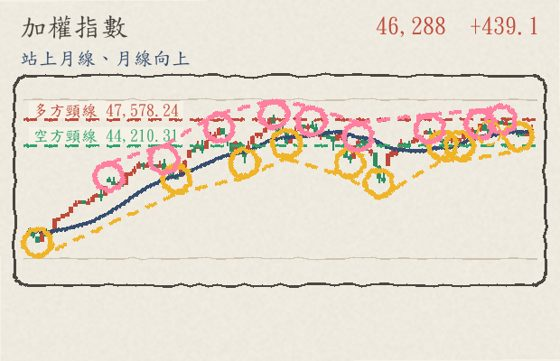
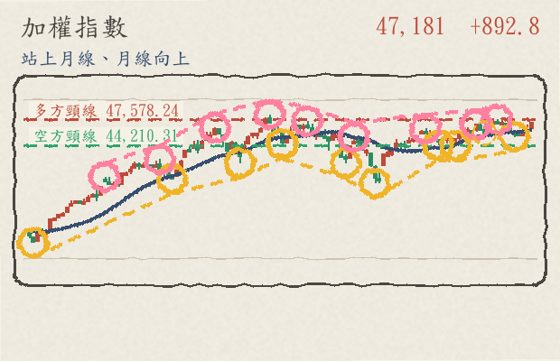
股市觀察：20260918 收盤後觀察（排程自動）

Changed region(s): [[0.0304, 0.2742, 0.9714, 0.7313], [0.6679, 0.0305, 0.8196, 0.0914], [0.85, 0.0305, 0.9714, 0.0914]]

diff --git a/stock/20260918/index.html b/stock/20260918/index.html
@@ -155,32 +155,32 @@
   </div>
   
   <section id="sec-market">
-    <h2>大盤趨勢快篩（加權指數） <small class="mksrc">資料日 2026/09/17・來源：證交所公開資料</small></h2>
+    <h2>大盤趨勢快篩（加權指數） <small class="mksrc">資料日 2026/09/18・來源：證交所公開資料</small></h2>
     <div class="mktbox">
       <div class="mkstate">主狀態：站上月線、月線向上</div>
-      <div class="mkprev">前一交易日對照（09/16）：量縮觀望（量比 20 0.78） → 今日站上月線、月線向上（量比 20 1.00）</div>
+      <div class="mkprev">前一交易日對照（09/17）：站上月線、月線向上（量比 20 1.00） → 今日站上月線、月線向上（量比 20 1.28）</div>
       <div class="scroll"><table>
         <tr><th>指標</th><th>數值</th><th>判定</th></tr>
         
-        <tr><th>收盤指數</th><td>46,288.00</td><td>+439.10 點（+0.96%）</td></tr>
+        <tr><th>收盤指數</th><td>47,180.75</td><td>+892.75 點（+1.93%）</td></tr>
         <tr id="sec-market-ma"><th>均線位置<br><span class="dim">收盤 vs MA5／10／20／60</span></th>
-          <td>MA5 45,939.15／MA10 46,480.28／MA20 46,159.89／MA60 45,156.82</td><td>站上 3／4｜站上／跌破／站上／站上（+0.76%／-0.41%／+0.28%／+2.51%）</td></tr>
-        <tr><th>均線排列</th><td>MA10 &gt; MA20 &gt; MA5 &gt; MA60</td><td>非標準排列（MA10 &gt; MA20 &gt; MA5 &gt; MA60，糾結度 2.87% → 糾結）</td></tr>
-        <tr><th>月線方向（MA20）</th><td>上彎（比 5 日前 +153.29 點／+0.33%）</td><td>上彎（+30.7 點／日）</td></tr>
+          <td>MA5 46,138.33／MA10 46,543.24／MA20 46,257.71／MA60 45,172.25</td><td>站上 4／4｜站上／站上／站上／站上（+2.26%／+1.37%／+2.00%／+4.45%）</td></tr>
+        <tr><th>均線排列</th><td>MA10 &gt; MA20 &gt; MA5 &gt; MA60</td><td>非標準排列（MA10 &gt; MA20 &gt; MA5 &gt; MA60，糾結度 2.96% → 糾結）</td></tr>
+        <tr><th>月線方向（MA20）</th><td>上彎（比 5 日前 +232.42 點／+0.50%）</td><td>上彎（+46.5 點／日）</td></tr>
         <tr id="sec-market-neck"><th>多方頸線<br><span class="dim">突破線</span></th>
-          <td>47,578.24（08-25 ~ 09-14 之間的最高轉折高點 09-08）</td><td>未突破，距 -2.71%</td></tr>
-        <tr><th>空方頸線<br><span class="dim">M 頭頸線</span></th><td>44,210.31（08-14 ~ 09-01 之間的最低轉折低點 08-25）</td><td>未跌破，距 +4.70%</td></tr>
+          <td>47,578.24（08-25 ~ 09-14 之間的最高轉折高點 09-08）</td><td>未突破，距 -0.84%</td></tr>
+        <tr><th>空方頸線<br><span class="dim">M 頭頸線</span></th><td>44,210.31（08-14 ~ 09-01 之間的最低轉折低點 08-25）</td><td>未跌破，距 +6.72%</td></tr>
         <tr><th>轉折結構<br><span class="dim">頭頭高／底底高</span></th>
           <td>高點 46,402.60 → 46,948.72 → 47,578.24（遞增）；低點 44,308.71 → 44,210.31 → 45,398.43（遞增，但僅因 0.5% 容差視為持平）</td><td>頭頭高 ✔、底底高 ✔（容差 0.5%）</td></tr>
-        <tr id="sec-market-pos"><th>位置</th><td>近 20 日高 47,578.24（09-08）／低 44,210.31（08-25）</td><td>距高 -2.71%、距低 +4.70%</td></tr>
+        <tr id="sec-market-pos"><th>位置</th><td>近 20 日高 47,578.24（09-08）／低 44,210.31（08-25）</td><td>距高 -0.84%、距低 +6.72%</td></tr>
         <tr id="sec-market-rank"><th>位階<br><span class="dim">近 20／60／120 日區間</span></th>
-          <td>近 120 日高 48,218.87（收盤價高 47,741.51）／低 31,705.99；近 60 日高 47,578.24／低 39,384.85</td><td>收盤位在 120 日區間第 88.3 個百分位（距 120 日高 -4.00%）</td></tr>
-        <tr id="sec-market-vol"><th>成交金額</th><td>8,666.2 億（集中市場總成交金額）</td><td>量比 5 = 1.20、量比 20 = 1.00（量能持平）</td></tr>
+          <td>近 120 日高 48,218.87（收盤價高 47,741.51）／低 31,705.99；近 60 日高 47,578.24／低 39,384.85</td><td>收盤位在 120 日區間第 93.7 個百分位（距 120 日高 -2.15%）</td></tr>
+        <tr id="sec-market-vol"><th>成交金額</th><td>11,423.2 億（集中市場總成交金額）</td><td>量比 5 = 1.43、量比 20 = 1.28（明顯放量）</td></tr>
         <tr id="sec-market-quad"><th>量價四象限<br><span class="dim">漲跌方向 × 量比 20</span></th>
-          <td>漲＋量平或縮 → 量縮上漲（追價意願有限）</td><td>量比 20 = 1.00（門檻 1.05 判定增／縮）→ 量縮上漲（追價意願有限）</td></tr>
+          <td>漲＋量增 → 量價配合（攻擊）</td><td>量比 20 = 1.28（門檻 1.05 判定增／縮）→ 量價配合（攻擊）</td></tr>
       </table></div>
-      <div class="mkbrief"><p class="mkconcl">加權指數今天漲 439.10 點（+0.96%），收 46,288.00、站上月線 46,159.89；月線還在上彎，MA10 這條短均還沒收復，離多方頸線 47,578.24 還差 2.71%。</p><ul class="mkpts"><li><b>均線位置</b>：4 條均線站上 3 條；沒站上的是 MA10 46,480.28（收盤比它低 0.41%）</li><li><b>月線方向</b>：月線 MA20 現在 46,159.89，比 5 個交易日前高 153.29 點 → 上彎</li><li><b>量能</b>：集中市場成交 8,666.2 億，比 5 日均量大不少（1.20 倍）、跟 20 日均量差不多（1.00 倍）</li><li><b>關鍵價位</b>：多方頸線 47,578.24，還差 2.71%；空方頸線 44,210.31，還在下方 4.70%</li><li><b>大小型股</b>：加權 +0.96%、櫃買 -0.26%，方向相反（大型股與小型股不同調）</li></ul></div>
-      <div class="mtgs"><a class="tg" href="#sec-market-ma">均線糾結</a><a class="tg" href="#sec-market-ma">收盤 &gt; MA60</a><a class="tg" href="#sec-market-ma">收盤 &lt; MA10（短均未收復）</a><a class="tg" href="#sec-market-pos">貼近 20 日高</a><a class="tg" href="#sec-market-vol">量縮上漲（追價意願有限）</a><a class="tg" href="#sec-market-vol">量能回升（量 ≥ 1.2×5 日均量）</a><a class="tg" href="#sec-market-neck">頭頭高</a><a class="tg" href="#sec-market-neck">底底高</a><a class="tg" href="#sec-market-neck">待確認轉折</a></div>
+      <div class="mkbrief"><p class="mkconcl">加權指數今天漲 892.75 點（+1.93%），收 47,180.75、站上月線 46,257.71；月線還在上彎，離多方頸線 47,578.24 還差 0.84%。</p><ul class="mkpts"><li><b>均線位置</b>：收盤在 MA5、MA10、MA20、MA60 之上（4 條全部站上）</li><li><b>月線方向</b>：月線 MA20 現在 46,257.71，比 5 個交易日前高 232.42 點 → 上彎</li><li><b>量能</b>：集中市場成交 11,423.2 億，比 5 日均量大不少（1.43 倍）、比 20 日均量大不少（1.28 倍）</li><li><b>關鍵價位</b>：多方頸線 47,578.24，還差 0.84%；空方頸線 44,210.31，還在下方 6.72%</li><li><b>大小型股</b>：加權 +1.93%、櫃買 +3.64%，兩邊同向</li></ul></div>
+      <div class="mtgs"><a class="tg" href="#sec-market-ma">均線糾結</a><a class="tg" href="#sec-market-ma">收盤 &gt; MA60</a><a class="tg" href="#sec-market-pos">貼近 20 日高</a><a class="tg" href="#sec-market-vol">量價配合（漲＋量增）</a><a class="tg" href="#sec-market-vol">量能回升（量 ≥ 1.2×5 日均量）</a><a class="tg" href="#sec-market-neck">頭頭高</a><a class="tg" href="#sec-market-neck">底底高</a><a class="tg" href="#sec-market-neck">待確認轉折</a></div>
       <div class="mkchart"><img src="charts/market.jpg" alt="加權指數日 K 線圖（黃圈＝轉折低點、粉圈＝轉折高點、藍線＝月線 MA20、水平虛線＝多方／空方頸線）" loading="lazy"><div class="cap">圖說：加權指數日 K（與個股圖相同標記）：黃圈＝轉折低點、粉圈＝轉折高點、虛線小圈＝還沒確認的轉折、藍線＝月線 MA20、水平虛線＝多方／空方頸線。最後一根是資料日當天。</div></div>
       <div class="note" style="margin:10px 0 0">本區塊為公開資料的技術面觀察，<strong>不構成投資建議</strong>，
         不報牌、不預測、不下買賣決策。成交金額為<strong>集中市場總成交金額</strong>（含 ETF／權證），
@@ -188,21 +188,21 @@
     </div>
 
       <div class="mkchip" id="sec-market-chip">
-        <h3>籌碼（三大法人／融資餘額）　<span class="dim">資料日 2026-09-17</span></h3>
+        <h3>籌碼（三大法人／融資餘額）　<span class="dim">資料日 2026-09-18</span></h3>
         <div class="scroll"><table>
           <tr><th>項目</th><th>數值</th></tr>
-          <tr><th>外資（不含外資自營商）</th><td>+495,061 張</td></tr><tr><th>投信</th><td>+119,126 張</td></tr><tr><th>自營商</th><td>-227,358 張</td></tr><tr><th>三大法人合計</th><td>+386,829 張</td></tr><tr><th>上市融資餘額</th><td>9,262,322 張（較前一交易日 +13,145 張）</td></tr><tr><th>上市融資金額</th><td>5,893.97 億（較前一交易日 +32.28 億）</td></tr><tr><th>上市融券餘額</th><td>216,288 張</td></tr>
+          <tr><th>外資（不含外資自營商）</th><td>+376,821 張</td></tr><tr><th>投信</th><td>+30,788 張</td></tr><tr><th>自營商</th><td>+238,091 張</td></tr><tr><th>三大法人合計</th><td>+645,699 張</td></tr>
         </table></div>
-        <div class="mknote">三大法人：證交所 rwd/zh/fund/T86（selectType=ALL）（全市場 17,977 列合計，單位 張（1 張＝1,000 股））；融資餘額：證交所 rwd/zh/marginTrading/MI_MARGN（selectType=ALL）（單位 張（融資交易單位））。法人合計＝外資＋投信＋自營商（同一市場、同一天）。</div>
+        <div class="mknote">三大法人：證交所 rwd/zh/fund/T86（selectType=ALL）（全市場 17,803 列合計，單位 張（1 張＝1,000 股））。法人合計＝外資＋投信＋自營商（同一市場、同一天）。</div>
       </div>
 
       <div class="mkotc" id="sec-market-otc">
         <h3>上市 vs 上櫃（同期快篩）</h3>
-        <div class="mkotcline">加權 +0.96% vs 櫃買 -0.26%（方向相反，大小型股背離）　→　方向相反（大小型股背離）
+        <div class="mkotcline">加權 +1.93% vs 櫃買 +3.64%（同向）　→　同向
           （兩個市場分開寫，不合併成一個數字；櫃買為 TPEX 公開資料）</div>
         <div class="scroll"><table>
           <tr><th>指標</th><th>加權（集中市場）</th><th>櫃買（上櫃）</th></tr>
-          <tr><th>收盤／漲跌</th><td>加權 46,288.00（+0.96%）</td><td>櫃買 398.17（-0.26%）</td></tr><tr><th>站上均線數</th><td>加權 3／4</td><td>櫃買 2／4</td></tr><tr><th>月線（MA20）</th><td>加權 站上（+0.28%）／上彎</td><td>櫃買 跌破（-0.27%）／上彎</td></tr><tr><th>多方頸線</th><td>加權 47,578.24｜未突破 -2.71%</td><td>櫃買 414.16｜未突破 -3.86%</td></tr><tr><th>空方頸線</th><td>加權 44,210.31｜未跌破 +4.70%</td><td>櫃買 394.59｜未跌破 +0.91%</td></tr><tr><th>近 120 日區間百分位</th><td>加權 88.3%</td><td>櫃買 59.8%</td></tr><tr><th>主狀態</th><td>加權 站上月線、月線向上</td><td>櫃買 月線爭奪</td></tr>
+          <tr><th>收盤／漲跌</th><td>加權 47,180.75（+1.93%）</td><td>櫃買 412.68（+3.64%）</td></tr><tr><th>站上均線數</th><td>加權 4／4</td><td>櫃買 4／4</td></tr><tr><th>月線（MA20）</th><td>加權 站上（+2.00%）／上彎</td><td>櫃買 站上（+3.04%）／上彎</td></tr><tr><th>多方頸線</th><td>加權 47,578.24｜未突破 -0.84%</td><td>櫃買 414.16｜未突破 -0.36%</td></tr><tr><th>空方頸線</th><td>加權 44,210.31｜未跌破 +6.72%</td><td>櫃買 394.59｜未跌破 +4.58%</td></tr><tr><th>近 120 日區間百分位</th><td>加權 93.7%</td><td>櫃買 69.3%</td></tr><tr><th>主狀態</th><td>加權 站上月線、月線向上</td><td>櫃買 站上月線、月線向上</td></tr>
         </table></div>
         <div class="mknote">櫃買歷史：TPEX 逐日回補 130 根；來源：櫃買中心 www/zh-tw/indexInfo/sectinx（逐日，官方；OpenAPI tpex_index 只回當月）
           （TPEX OpenAPI 只回當月，故逐日回補；歷史不足就不算該條均線並標「資料不足」，不用錯數字）</div>
@@ -212,7 +212,7 @@
         <h3>近 20 個交易日大盤狀態回溯（最新在上）</h3>
         <div class="scroll"><table>
           <tr><th>日期</th><th>主狀態</th><th>量比 20</th><th>量價象限</th></tr>
-          <tr><td class="d">09/17</td><td>站上月線、月線向上</td><td class="d">1.00</td><td class="d">量縮上漲（追價意願有限）</td></tr><tr><td class="d">09/16</td><td>量縮觀望</td><td class="d">0.78</td><td class="d">量縮上漲（追價意願有限）</td></tr><tr><td class="d">09/15</td><td>量縮觀望</td><td class="d">0.72</td><td class="d">量縮回檔（賣壓不重）</td></tr><tr><td class="d">09/14</td><td>月線爭奪</td><td class="d">0.74</td><td class="d">量縮回檔（賣壓不重）</td></tr><tr><td class="d">09/11</td><td>站上月線、月線向上</td><td class="d">0.83</td><td class="d">量縮回檔（賣壓不重）</td></tr><tr><td class="d">09/10</td><td>站上月線、月線向上</td><td class="d">0.81</td><td class="d">量縮回檔（賣壓不重）</td></tr><tr><td class="d">09/09</td><td>多頭排列</td><td class="d">0.86</td><td class="d">量縮上漲（追價意願有限）</td></tr><tr><td class="d">09/08</td><td>多頭排列</td><td class="d">0.97</td><td class="d">量縮回檔（賣壓不重）</td></tr><tr><td class="d">09/07</td><td>多頭排列</td><td class="d">1.05</td><td class="d">量縮上漲（追價意願有限）</td></tr><tr><td class="d">09/04</td><td>多頭排列</td><td class="d">0.91</td><td class="d">量縮上漲（追價意願有限）</td></tr><tr><td class="d">09/03</td><td>站上月線、月線向上</td><td class="d">1.05</td><td class="d">量增下跌（賣壓出籠）</td></tr><tr><td class="d">09/02</td><td>站上月線、月線向上</td><td class="d">1.03</td><td class="d">量縮回檔（賣壓不重）</td></tr><tr><td class="d">09/01</td><td>多頭排列</td><td class="d">1.24</td><td class="d">量價配合（攻擊）</td></tr><tr><td class="d">08/31</td><td>多頭排列</td><td class="d">1.36</td><td class="d">量增下跌（賣壓出籠）</td></tr><tr><td class="d">08/28</td><td>多頭排列</td><td class="d">1.15</td><td class="d">量價配合（攻擊）</td></tr><tr><td class="d">08/27</td><td>多頭排列</td><td class="d">1.05</td><td class="d">量縮上漲（追價意願有限）</td></tr><tr><td class="d">08/26</td><td>站上月線、月線向上</td><td class="d">0.91</td><td class="d">量縮上漲（追價意願有限）</td></tr><tr><td class="d">08/25</td><td>站上月線、月線向上</td><td class="d">0.77</td><td class="d">量縮上漲（追價意願有限）</td></tr><tr><td class="d">08/24</td><td>站上月線、月線向上</td><td class="d">0.69</td><td class="d">量縮回檔（賣壓不重）</td></tr><tr><td class="d">08/21</td><td>站上月線、月線向上</td><td class="d">0.79</td><td class="d">量縮上漲（追價意願有限）</td></tr>
+          <tr><td class="d">09/18</td><td>站上月線、月線向上</td><td class="d">1.28</td><td class="d">量價配合（攻擊）</td></tr><tr><td class="d">09/17</td><td>站上月線、月線向上</td><td class="d">1.00</td><td class="d">量縮上漲（追價意願有限）</td></tr><tr><td class="d">09/16</td><td>量縮觀望</td><td class="d">0.78</td><td class="d">量縮上漲（追價意願有限）</td></tr><tr><td class="d">09/15</td><td>量縮觀望</td><td class="d">0.72</td><td class="d">量縮回檔（賣壓不重）</td></tr><tr><td class="d">09/14</td><td>月線爭奪</td><td class="d">0.74</td><td class="d">量縮回檔（賣壓不重）</td></tr><tr><td class="d">09/11</td><td>站上月線、月線向上</td><td class="d">0.83</td><td class="d">量縮回檔（賣壓不重）</td></tr><tr><td class="d">09/10</td><td>站上月線、月線向上</td><td class="d">0.81</td><td class="d">量縮回檔（賣壓不重）</td></tr><tr><td class="d">09/09</td><td>多頭排列</td><td class="d">0.86</td><td class="d">量縮上漲（追價意願有限）</td></tr><tr><td class="d">09/08</td><td>多頭排列</td><td class="d">0.97</td><td class="d">量縮回檔（賣壓不重）</td></tr><tr><td class="d">09/07</td><td>多頭排列</td><td class="d">1.05</td><td class="d">量縮上漲（追價意願有限）</td></tr><tr><td class="d">09/04</td><td>多頭排列</td><td class="d">0.91</td><td class="d">量縮上漲（追價意願有限）</td></tr><tr><td class="d">09/03</td><td>站上月線、月線向上</td><td class="d">1.05</td><td class="d">量增下跌（賣壓出籠）</td></tr><tr><td class="d">09/02</td><td>站上月線、月線向上</td><td class="d">1.03</td><td class="d">量縮回檔（賣壓不重）</td></tr><tr><td class="d">09/01</td><td>多頭排列</td><td class="d">1.24</td><td class="d">量價配合（攻擊）</td></tr><tr><td class="d">08/31</td><td>多頭排列</td><td class="d">1.36</td><td class="d">量增下跌（賣壓出籠）</td></tr><tr><td class="d">08/28</td><td>多頭排列</td><td class="d">1.15</td><td class="d">量價配合（攻擊）</td></tr><tr><td class="d">08/27</td><td>多頭排列</td><td class="d">1.05</td><td class="d">量縮上漲（追價意願有限）</td></tr><tr><td class="d">08/26</td><td>站上月線、月線向上</td><td class="d">0.91</td><td class="d">量縮上漲（追價意願有限）</td></tr><tr><td class="d">08/25</td><td>站上月線、月線向上</td><td class="d">0.77</td><td class="d">量縮上漲（追價意願有限）</td></tr><tr><td class="d">08/24</td><td>站上月線、月線向上</td><td class="d">0.69</td><td class="d">量縮回檔（賣壓不重）</td></tr>
         </table></div>
         <div class="mknote">用同一支程式回算最近 20 個交易日（主狀態 S1~S8 與量比 20 皆為當日收盤當時的判定，
           不是事後調整）；量比 20 未公布的日子寫「—」。</div>
@@ -1059,6 +1059,6 @@
   </article>
   <a class="top" href="../">← 回股市觀察</a>
 </div>
-<div class="viewsline">瀏覽次數 <span class="vnum" data-views>—</span></div>
+<div class="viewsline">瀏覽次數 <span class="vnum" data-views-fallback="2" data-views>—</span></div>
 </body>
 </html>

diff --git a/index.html b/index.html
@@ -141,7 +141,7 @@
       <span class="more"><a href="stock/">全部觀察紀錄（11）→</a></span>
     </h2>
     <p class="hint">只用公開資料，把「熱門」拿去驗證；內容為觀察與記錄，不構成投資建議。</p>
-    <p class="mktline">大盤（加權指數）09/17 主狀態：站上月線、月線向上｜距多方頸線 −2.71%｜量比 20 1.00<span class="dim">　公開資料技術面統計，不構成投資建議</span></p>
+    <p class="mktline">大盤（加權指數）09/18 主狀態：站上月線、月線向上｜距多方頸線 −0.84%｜量比 20 1.28<span class="dim">　公開資料技術面統計，不構成投資建議</span></p>
     <div class="card">
       <span class="tag new">最新</span>
       <h3>2026/09/18 收盤後觀察：47180.75　+892.75 點（+1.93%）</h3>

diff --git a/stock/20260917-intraday/index.html b/stock/20260917-intraday/index.html
@@ -92,6 +92,7 @@
   .mkchip th[scope],.mkchip tr th,.mkotc tr th,.mkhist tr th{width:auto;white-space:nowrap}
   .mkchip tr th{width:34%}
   .mkotcline,.mknote{font-size:13.5px;color:var(--soft);margin:4px 0 0}
+
   /* hermesnav（共用導覽・密集版：手機單行可橫向滑） */
   .hnav{position:sticky;top:0;z-index:20;display:flex;flex-wrap:nowrap;align-items:center;gap:2px;
         background:rgba(246,241,230,.97);border-bottom:2px solid #d9d1c2;padding:5px 10px;

diff --git a/stock/20260917/index.html b/stock/20260917/index.html
@@ -89,6 +89,7 @@
   .mkchip th[scope],.mkchip tr th,.mkotc tr th,.mkhist tr th{width:auto;white-space:nowrap}
   .mkchip tr th{width:34%}
   .mkotcline,.mknote{font-size:13.5px;color:var(--soft);margin:4px 0 0}
+
   /* hermesnav（共用導覽・密集版：手機單行可橫向滑） */
   .hnav{position:sticky;top:0;z-index:20;display:flex;flex-wrap:nowrap;align-items:center;gap:2px;
         background:rgba(246,241,230,.97);border-bottom:2px solid #d9d1c2;padding:5px 10px;

diff --git a/stock/20260918-intraday/index.html b/stock/20260918-intraday/index.html
@@ -92,6 +92,7 @@
   .mkchip th[scope],.mkchip tr th,.mkotc tr th,.mkhist tr th{width:auto;white-space:nowrap}
   .mkchip tr th{width:34%}
   .mkotcline,.mknote{font-size:13.5px;color:var(--soft);margin:4px 0 0}
+
   /* hermesnav（共用導覽・密集版：手機單行可橫向滑） */
   .hnav{position:sticky;top:0;z-index:20;display:flex;flex-wrap:nowrap;align-items:center;gap:2px;
         background:rgba(246,241,230,.97);border-bottom:2px solid #d9d1c2;padding:5px 10px;

diff --git a/stock/20260915-intraday/index.html b/stock/20260915-intraday/index.html
@@ -55,6 +55,7 @@
   a.top,a.top2{display:block;text-align:center;margin-top:34px;color:var(--blue)}
   a.top2{margin-top:12px;font-size:13.5px;text-decoration:none;color:var(--soft)}
 
+
   /* hermesnav（共用導覽・密集版：手機單行可橫向滑） */
   .hnav{position:sticky;top:0;z-index:20;display:flex;flex-wrap:nowrap;align-items:center;gap:2px;
         background:rgba(246,241,230,.97);border-bottom:2px solid #d9d1c2;padding:5px 10px;

diff --git a/stock/20260916-intraday/index.html b/stock/20260916-intraday/index.html
@@ -55,6 +55,7 @@
   a.top,a.top2{display:block;text-align:center;margin-top:34px;color:var(--blue)}
   a.top2{margin-top:12px;font-size:13.5px;text-decoration:none;color:var(--soft)}
 
+
   /* hermesnav（共用導覽・密集版：手機單行可橫向滑） */
   .hnav{position:sticky;top:0;z-index:20;display:flex;flex-wrap:nowrap;align-items:center;gap:2px;
         background:rgba(246,241,230,.97);border-bottom:2px solid #d9d1c2;padding:5px 10px;

diff --git a/ai/hdd-ai/index.html b/ai/hdd-ai/index.html
@@ -192,6 +192,7 @@
     .hnav a.lnk{font-size:12.5px;padding:2px 6px}
   }
 
+
   /* hermesnav（共用導覽・密集版：手機單行可橫向滑） */
   .hnav{position:sticky;top:0;z-index:20;display:flex;flex-wrap:nowrap;align-items:center;gap:2px;
         background:rgba(246,241,230,.97);border-bottom:2px solid #d9d1c2;padding:5px 10px;

diff --git a/private/demo/index.html b/private/demo/index.html
@@ -192,6 +192,7 @@
     .hnav a.lnk{font-size:12.5px;padding:2px 6px}
   }
 
+
   /* hermesnav（共用導覽・密集版：手機單行可橫向滑） */
   .hnav{position:sticky;top:0;z-index:20;display:flex;flex-wrap:nowrap;align-items:center;gap:2px;
         background:rgba(246,241,230,.97);border-bottom:2px solid #d9d1c2;padding:5px 10px;

diff --git a/ai/exam/index.html b/ai/exam/index.html
@@ -76,6 +76,7 @@
 
 
 
+
   /* hermesnav（共用導覽・密集版：手機單行可橫向滑） */
   .hnav{position:sticky;top:0;z-index:20;display:flex;flex-wrap:nowrap;align-items:center;gap:2px;
         background:rgba(246,241,230,.97);border-bottom:2px solid #d9d1c2;padding:5px 10px;

diff --git a/ai/index.html b/ai/index.html
@@ -46,6 +46,7 @@
 
 
 
+
   /* hermesnav（共用導覽・密集版：手機單行可橫向滑） */
   .hnav{position:sticky;top:0;z-index:20;display:flex;flex-wrap:nowrap;align-items:center;gap:2px;
         background:rgba(246,241,230,.97);border-bottom:2px solid #d9d1c2;padding:5px 10px;

diff --git a/stock/20260911/index.html b/stock/20260911/index.html
@@ -69,6 +69,7 @@
 
 
 
+
   /* hermesnav（共用導覽・密集版：手機單行可橫向滑） */
   .hnav{position:sticky;top:0;z-index:20;display:flex;flex-wrap:nowrap;align-items:center;gap:2px;
         background:rgba(246,241,230,.97);border-bottom:2px solid #d9d1c2;padding:5px 10px;
